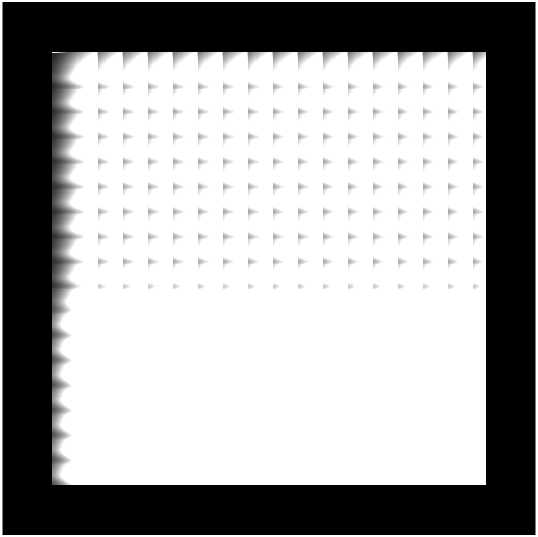
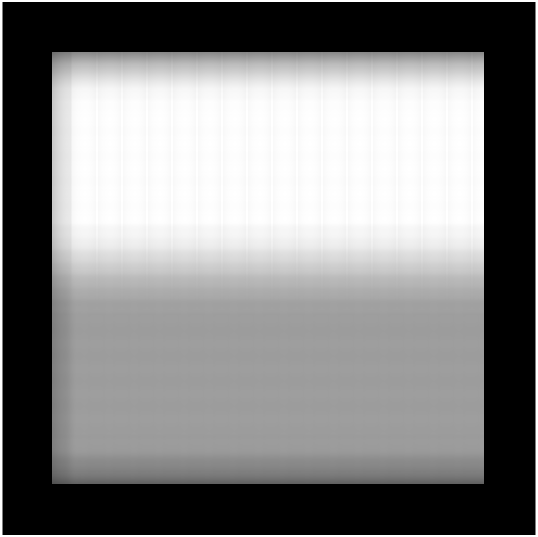
added images

diff --git a/project4/main_1.m b/project4/main_1.m
@@ -40,7 +40,7 @@ theta = 135;
 sigma = 8;
 width = 2;
 
-I = imread('texture2.gif');
+I = imread('texture1.gif');
 %img=zeros(size(I));
 img=double(I.*255);
 
